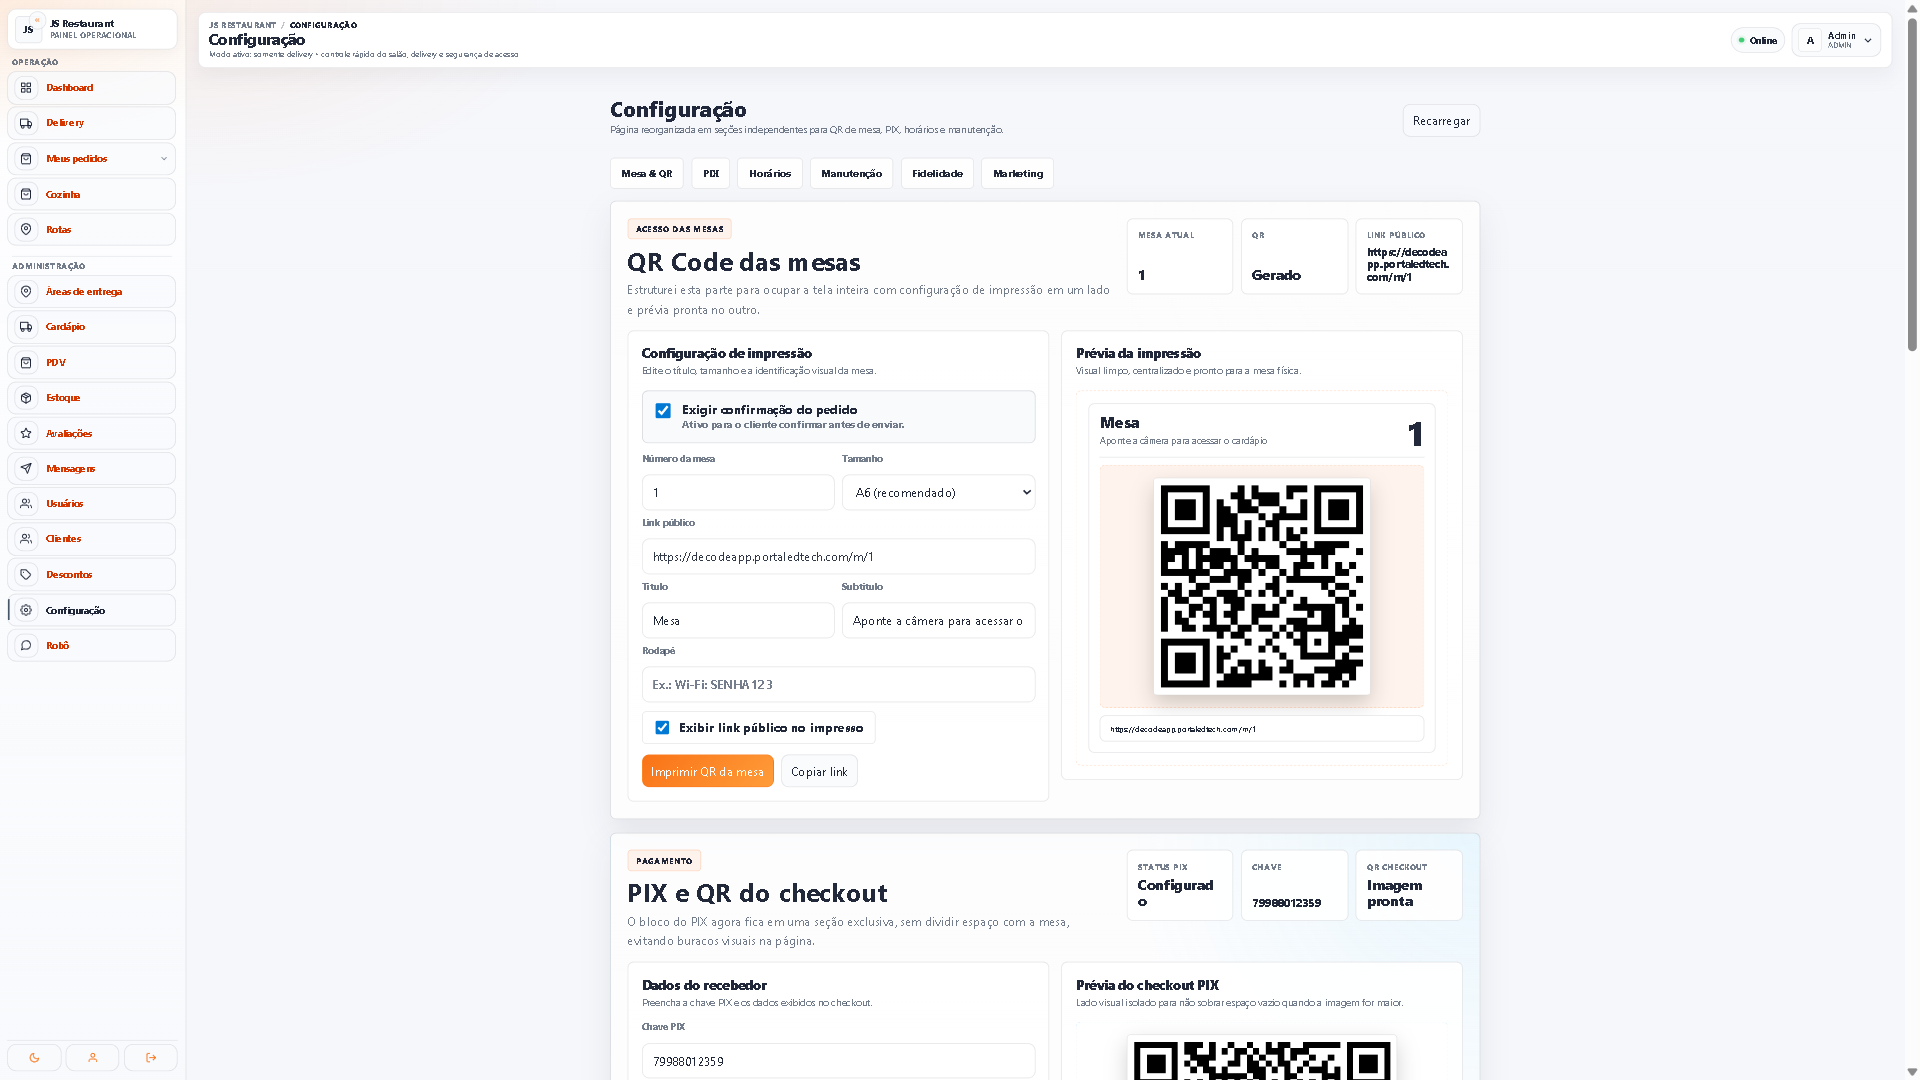
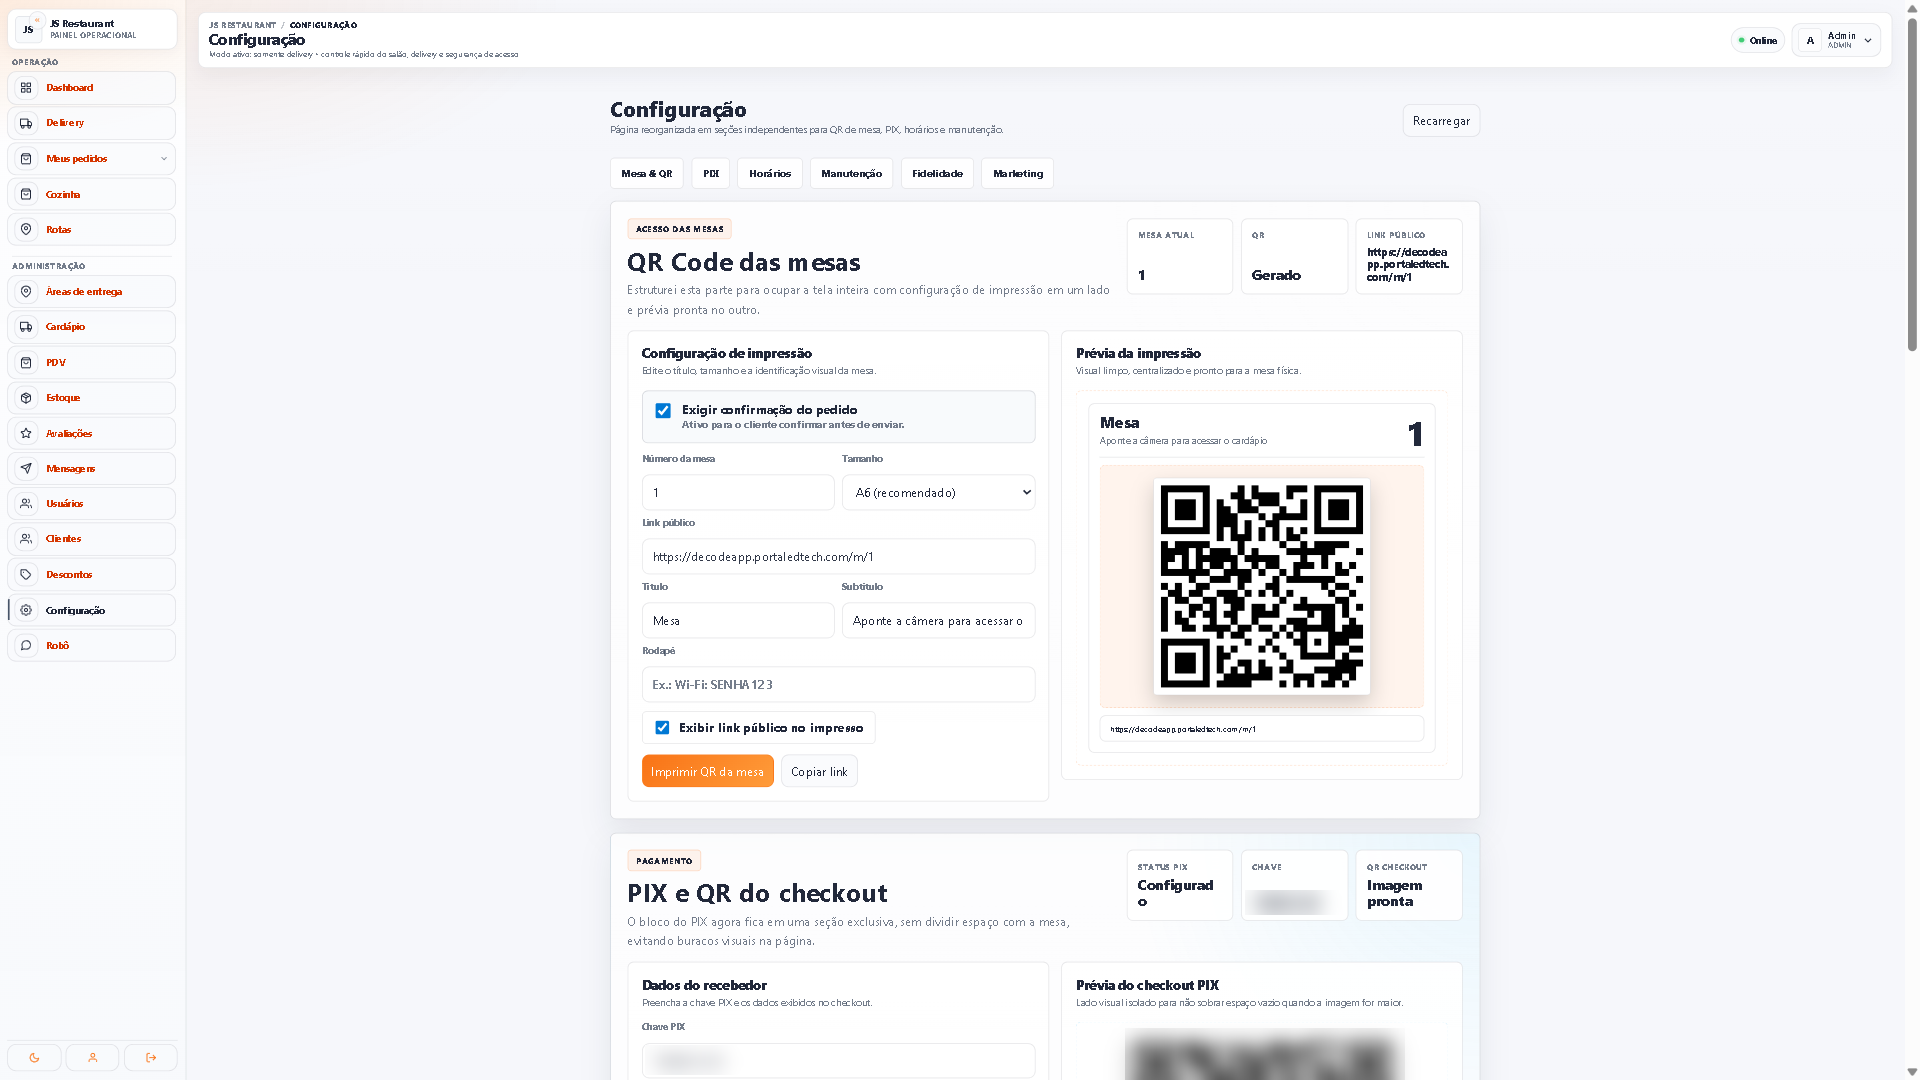
AfiliadoFlow em destaque e dados pessoais desfocados nas capturas

Changed region(s): [[0.5625, 0.9472, 0.75, 1.0], [0.6562, 0.825, 0.6875, 0.8556], [0.3438, 0.9778, 0.375, 1.0]]

diff --git a/src/pages/Home/index.tsx b/src/pages/Home/index.tsx
@@ -11,10 +11,10 @@ import udemy1 from '@/assets/certificates/udemy1.png'
 import udemy2 from '@/assets/certificates/udemy2.png'
 import seguranca from '@/assets/certificates/seguranca.png'
 import javaCert from '@/assets/certificates/java_certificado.png'
-import restaurantFrente from '@/assets/projetos/gestao/dashboard.png'
-import restaurantCardapio from '@/assets/projetos/gestao/cardapio-cliente.png'
-import restaurantAmbiente from '@/assets/projetos/gestao/delivery.png'
-import restaurantProduto from '@/assets/projetos/gestao/areas.png'
+import afHero from '@/assets/projetos/afiliadoflow/hero.png'
+import afPainel from '@/assets/projetos/afiliadoflow/painel.png'
+import afPlanos from '@/assets/projetos/afiliadoflow/planos.png'
+import afBeneficios from '@/assets/projetos/afiliadoflow/beneficios.png'
 import './home.css'
 
 const section: Variants = {
@@ -107,7 +107,7 @@ export default function Home() {
         </div>
       </section>
 
-      {/* FEATURED PROJECT - RESTAURANT */}
+      {/* FEATURED PROJECT - AFILIADOFLOW */}
       <motion.section
         className="home-section"
         initial="hidden"
@@ -120,38 +120,41 @@ export default function Home() {
         <motion.div className="featured-card" variants={fadeUp}>
           <div className="featured-gallery">
             <div className="featured-image-main">
-              <img src={restaurantFrente} alt="Dashboard operacional" loading="lazy" />
-              <div className="featured-badge">Destaque</div>
+              <img src={afHero} alt="AfiliadoFlow publicando ofertas no WhatsApp" loading="lazy" />
+              <div className="featured-badge">Em produção</div>
             </div>
             <div className="featured-thumbs">
-              <img src={restaurantCardapio} alt="Cardápio digital" loading="lazy" />
-              <img src={restaurantAmbiente} alt="Painel de delivery" loading="lazy" />
-              <img src={restaurantProduto} alt="Áreas de entrega" loading="lazy" />
+              <img src={afPainel} alt="Sessão do WhatsApp conectada no painel" loading="lazy" />
+              <img src={afPlanos} alt="Planos de assinatura" loading="lazy" />
+              <img src={afBeneficios} alt="Recursos do AfiliadoFlow" loading="lazy" />
             </div>
           </div>
           <div className="featured-info">
             <h3>{t('home.featured.title')}</h3>
             <p>{t('home.featured.desc')}</p>
             <div className="featured-techs">
-              {['Java 17', 'Spring Boot', 'React', 'TypeScript', 'PostgreSQL', 'Baileys', 'Gemini AI', 'WebSocket'].map(tech => (
+              {['Python', 'Flask', 'Celery', 'Node.js', 'TypeScript', 'PostgreSQL', 'Redis', 'Docker', 'Android'].map(tech => (
                 <span key={tech}>{tech}</span>
               ))}
             </div>
             <div className="featured-results">
               <div className="result-item">
-                <strong>IA</strong>
+                <strong>438</strong>
                 <span>{t('home.featured.result1')}</span>
               </div>
               <div className="result-item">
-                <strong>PIX</strong>
+                <strong>{t('home.featured.stat2')}</strong>
                 <span>{t('home.featured.result2')}</span>
               </div>
               <div className="result-item">
-                <strong>Real-time</strong>
+                <strong>24h</strong>
                 <span>{t('home.featured.result3')}</span>
               </div>
             </div>
             <div className="featured-links">
+              <a href="https://www.afiliadoflow.com" target="_blank" rel="noreferrer" className="featured-link">
+                {t('home.featured.viewLive')} →
+              </a>
               <NavLink to="/projects" className="featured-link">
                 {t('home.viewProjects')} →
               </NavLink>

diff --git a/src/pages/Projects/projects.ts b/src/pages/Projects/projects.ts
@@ -2,21 +2,23 @@ import { projectImages } from '@/data/projectImages'
 
 export const projects = [
   {
-    title: 'Sistema de Gestão - Lanchonetes, Restaurantes e Pizzarias',
+    title: 'AfiliadoFlow - SaaS de Automação para Afiliados',
     description:
-      'Plataforma completa de gestão com cardápio digital, pedidos mesa/delivery, chatbot IA via WhatsApp, pagamento PIX, cozinha em tempo real, cashback e painel administrativo.',
-    techs: ['Java 17', 'Spring Boot', 'React', 'TypeScript', 'PostgreSQL', 'Baileys', 'Gemini AI', 'WebSocket'],
+      'SaaS em produção com 438 clientes e cerca de 8 mil ofertas publicadas por dia. Encontra ofertas no Mercado Livre, Amazon e Shopee, gera o link de afiliado e publica sozinho em grupos e canais do WhatsApp e Telegram. Assinatura recorrente, app Android, extensão Chrome, clonagem de ofertas e painel administrativo. Desenvolvido e mantido em parceria.',
+    techs: ['Python', 'Flask', 'Celery', 'Node.js', 'TypeScript', 'PostgreSQL', 'Redis', 'Docker', 'Baileys (WhatsApp)', 'Android'],
     github: 'https://github.com/LeandrSDEV',
-    images: projectImages.gestao,
+    site: 'https://www.afiliadoflow.com',
+    live: 'Em produção',
+    images: projectImages.afiliadoflow,
     private: true
   },
   {
-    title: 'Sales Bot - Scraping & Automação de Vendas',
+    title: 'Sistema de Gestão - Lanchonetes, Restaurantes e Pizzarias',
     description:
-      'Pipeline automatizado de vendas: scraping de produtos em alta (Google Trends + Amazon + Mercado Livre), geração de links de afiliado e disparo em massa via WhatsApp com bot de conversas.',
-    techs: ['Python', 'Playwright', 'Selenium', 'Node.js', 'Baileys (WhatsApp)', 'SQLite', 'BeautifulSoup'],
+      'Sistema completo com 34 módulos e mais de 370 classes Java no back-end: cardápio digital, pedidos por mesa (QR Code) e delivery, PDV de balcão, cozinha em tempo real, rotas do motoboy com GPS e rastreio pelo cliente, estoque, cupons e fidelidade, módulo fiscal, integração TEF, impressão de pedidos, robô de WhatsApp com IA (Gemini) e permissões por perfil.',
+    techs: ['Java 17', 'Spring Boot', 'React', 'TypeScript', 'PostgreSQL', 'Baileys', 'Gemini AI', 'WebSocket', 'Docker'],
     github: 'https://github.com/LeandrSDEV',
-    images: [],
+    images: projectImages.gestao,
     private: true
   },
   {

diff --git a/src/pages/Projects/index.tsx b/src/pages/Projects/index.tsx
@@ -10,6 +10,8 @@ type ProjectItem = {
   github: string
   images: string[]
   private?: boolean
+  site?: string
+  live?: string
 }
 
 import { projects } from './projects'
@@ -190,6 +192,7 @@ function ProjectCard({ project }: { project: ProjectItem }) {
 
         <div className="card-title-row">
           <h2>{project.title}</h2>
+          {project.live && <span className="private-badge live-badge">{project.live}</span>}
           {project.private && <span className="private-badge">Privado</span>}
         </div>
         <p>{project.description}</p>
@@ -199,6 +202,17 @@ function ProjectCard({ project }: { project: ProjectItem }) {
             <span key={tech}>{tech}</span>
           ))}
         </div>
+
+        {project.site && (
+          <a
+            href={project.site}
+            target="_blank"
+            rel="noreferrer"
+            className="github-link"
+          >
+            Ver no ar →
+          </a>
+        )}
 
         <a
           href={project.github}

diff --git a/src/data/projectImages.ts b/src/data/projectImages.ts
@@ -75,7 +75,18 @@ import gestaoCupons from '@/assets/projetos/gestao/cupons.png'
 import gestaoConfiguracao from '@/assets/projetos/gestao/configuracao.png'
 import gestaoWhatsapp from '@/assets/projetos/gestao/whatsapp.png'
 
+import afHero from '@/assets/projetos/afiliadoflow/hero.png'
+import afPlanos from '@/assets/projetos/afiliadoflow/planos.png'
+import afPainel from '@/assets/projetos/afiliadoflow/painel.png'
+import afBeneficios from '@/assets/projetos/afiliadoflow/beneficios.png'
+
 export const projectImages = {
+  afiliadoflow: [
+    afHero,
+    afPainel,
+    afPlanos,
+    afBeneficios
+  ],
   ags: [
     agshome,
     agshome1,

diff --git a/src/pages/Projects/projects.css b/src/pages/Projects/projects.css
@@ -238,6 +238,12 @@
 }
 
 /* === LINK === */
+.live-badge {
+  background: rgba(34, 197, 94, 0.1);
+  color: #22c55e;
+  border-color: rgba(34, 197, 94, 0.25);
+}
+
 .github-link {
   margin-top: auto;
   display: inline-flex;
